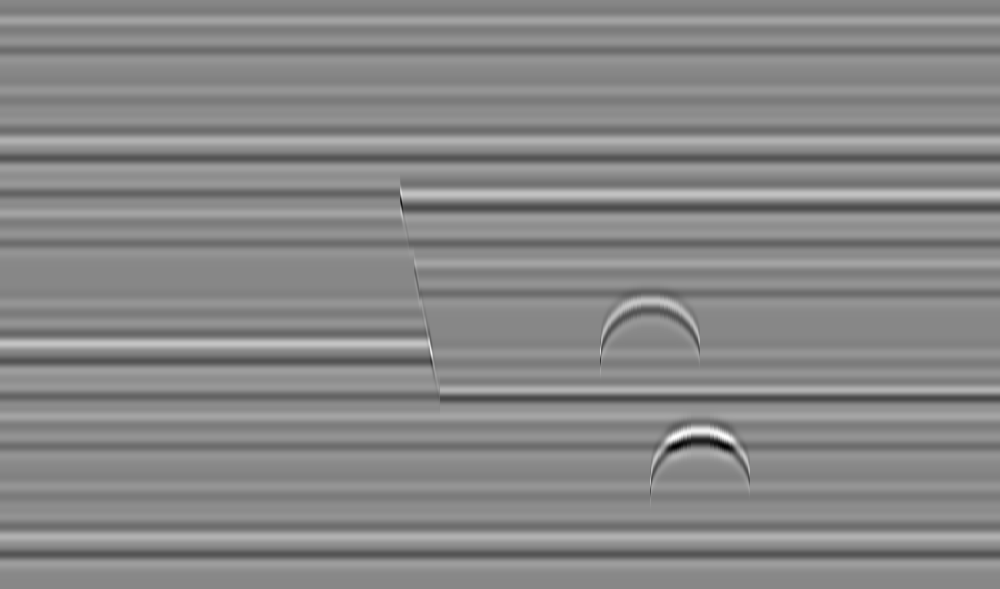
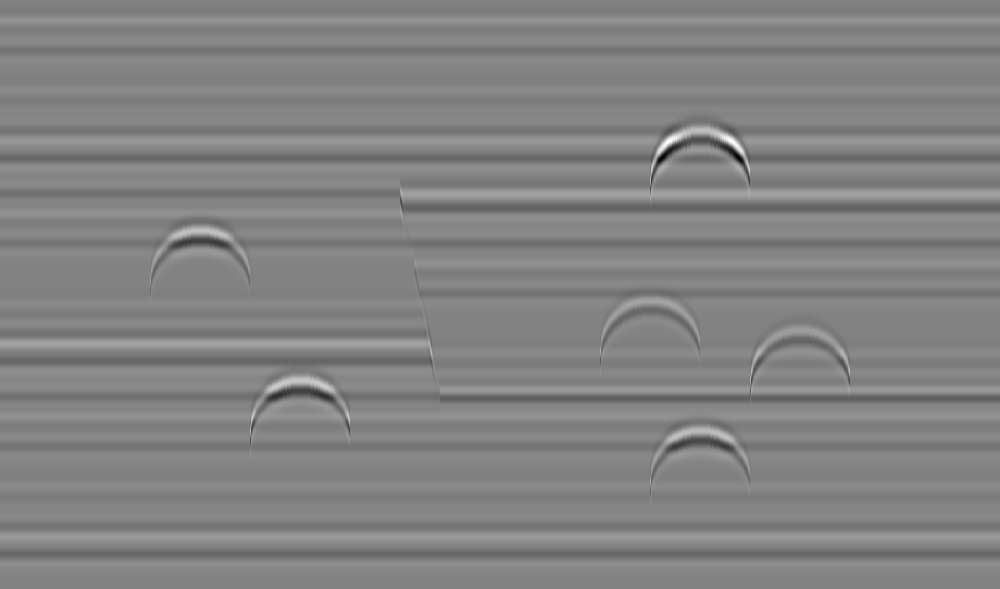
Model with more traps

diff --git a/examples/Create_Synthetic_Model.py b/examples/Create_Synthetic_Model.py
@@ -69,6 +69,10 @@ plt.colorbar()
 Fake = np.concatenate((Layers0.V, Fault0.V, Layers0.V), axis=0)
 Fake[270:370, 600:700] = Fake[270:370, 600:700] + Trap0.V
 Fake[400:500, 650:750] = Fake[400:500, 650:750] + Trap0.V
+Fake[100:200, 650:750] = Fake[100:200, 650:750] + Trap0.V
+Fake[200:300, 150:250] = Fake[200:300, 150:250] + Trap0.V
+Fake[350:450, 250:350] = Fake[350:450, 250:350] + Trap0.V
+Fake[300:400, 750:850] = Fake[300:400, 750:850] + Trap0.V
 #Fake[300:400, 600:700] = Trap0.V
 
 plt.figure(figsize=(12, 7))
